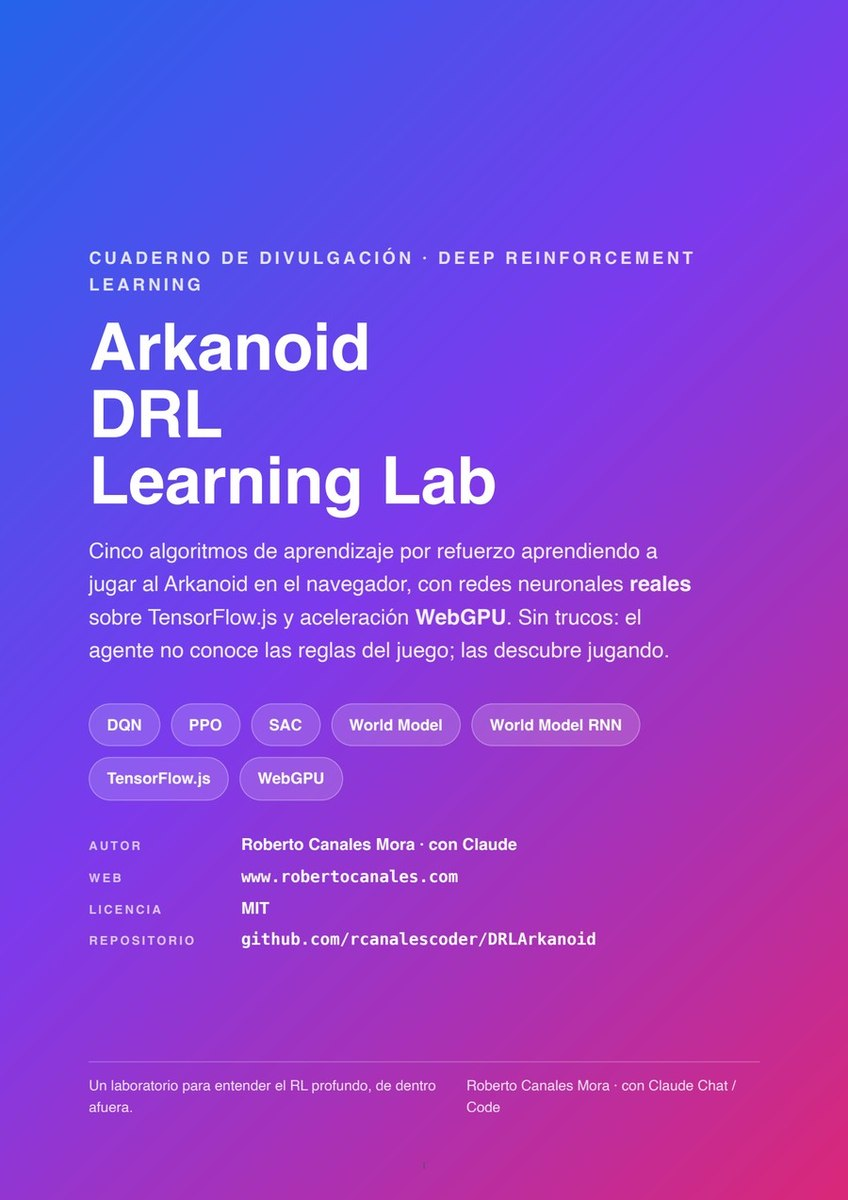
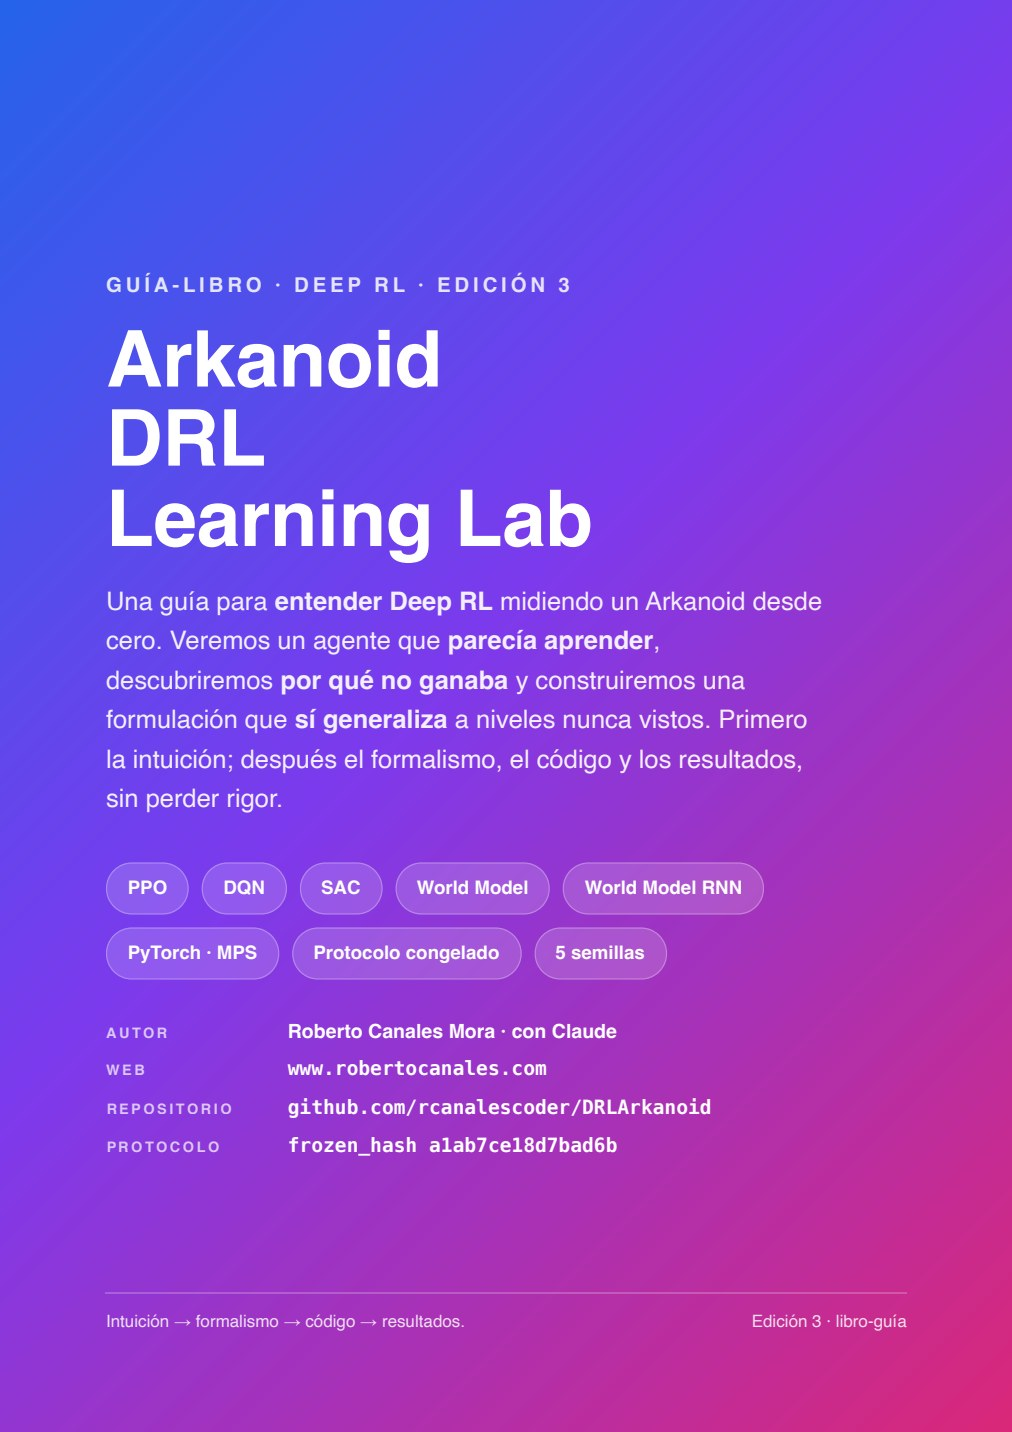
README al PDF v3 y pipeline autosuficiente (sin depender del v2 borrado)
- README: enlaces, portada y tira de muestra apuntan al cuaderno v3 (222 págs, ~13 MB); texto a Edición 3.
- Regeneradas docs/assets/pdf_cover.jpg y pdf_preview.jpg desde el PDF v3 (antes mostraban la v2).
- assemble_v3.py ya no lee docs/report_v2.html (borrado): la cabecera/CSS queda congelada en .claude/head_v2.html.

Changed region(s): [[0.092, 0.185, 0.8278, 0.8017], [0.092, 0.8942, 0.5212, 0.925], [0.5519, 0.8942, 0.8892, 0.925]]

diff --git a/.claude/head_v2.html b/.claude/head_v2.html
@@ -1,0 +1,189 @@
+<!DOCTYPE html>
+<html lang="es">
+<head>
+<meta charset="UTF-8" />
+<title>Arkanoid DRL Learning Lab — Cuaderno de divulgación</title>
+<style>
+  :root{
+    --ink:#11181f; --slate:#41464f; --muted:#8a909b; --line:#e7e9ef;
+    --blue:#2563eb; --blue-soft:#eff4fe; --violet:#7c3aed; --violet-soft:#f4effe;
+    --pink:#db2777; --pink-soft:#fdeef6; --green:#0c9f6e; --green-soft:#e9fbf4;
+    --amber:#d97706; --amber-soft:#fef3e6; --cyan:#0891b2; --cyan-soft:#e7f7fb;
+  }
+  @page{ size:A4; margin:14mm 0; }
+  @page cover{ margin:0; }
+  *{ box-sizing:border-box; }
+  html,body{ margin:0; padding:0; }
+  body{ font-family:-apple-system,"Segoe UI",Roboto,Helvetica,Arial,sans-serif;
+    color:var(--ink); font-size:10.5pt; line-height:1.55; -webkit-print-color-adjust:exact; print-color-adjust:exact; }
+  .pad{ padding:0 18mm; }
+  .mono{ font-family:"SFMono-Regular",Menlo,Consolas,monospace; }
+  h1,h2,h3,h4{ margin:0; letter-spacing:-0.3px; }
+  p{ margin:0 0 8px; }
+  small{ color:var(--muted); }
+
+  /* portada */
+  .cover{ page:cover; height:297mm; display:flex; flex-direction:column; justify-content:center;
+    color:#fff; padding:0 22mm; position:relative; overflow:hidden;
+    background:linear-gradient(135deg,#2563eb 0%,#7c3aed 45%,#db2777 100%); }
+  .cover .kicker{ font-size:12pt; letter-spacing:3px; text-transform:uppercase; opacity:.85; font-weight:600; }
+  .cover h1{ font-size:46pt; line-height:1.02; margin:14px 0 0; font-weight:700; }
+  .cover .sub{ font-size:15pt; opacity:.92; margin-top:18px; max-width:150mm; font-weight:400; }
+  .cover .chips{ margin-top:34px; display:flex; gap:10px; flex-wrap:wrap; }
+  .cover .chip{ background:rgba(255,255,255,.16); border:1px solid rgba(255,255,255,.28);
+    padding:8px 16px; border-radius:999px; font-size:11pt; font-weight:600; }
+  .cover .credits{ margin-top:30px; display:flex; flex-direction:column; gap:6px; }
+  .cover .cr{ display:flex; align-items:baseline; gap:14px; font-size:11.5pt; }
+  .cover .cr .lbl{ min-width:34mm; font-size:8.5pt; letter-spacing:2px; text-transform:uppercase; opacity:.72; font-weight:700; }
+  .cover .cr .val{ font-weight:600; }
+  .cover .foot{ position:absolute; bottom:20mm; left:22mm; right:22mm; font-size:10pt; opacity:.85;
+    display:flex; justify-content:space-between; border-top:1px solid rgba(255,255,255,.25); padding-top:12px; }
+
+  /* secciones y bandas de cabecera */
+  .section{ page-break-before:always; }
+  .band{ color:#fff; padding:16px 18mm; margin-bottom:14px; }
+  .band .n{ font-size:11pt; font-weight:700; opacity:.8; letter-spacing:2px; }
+  .band h2{ font-size:25pt; margin-top:2px; }
+  .band .tag{ font-size:10.5pt; opacity:.92; margin-top:4px; }
+  .b-blue{ background:linear-gradient(120deg,#2563eb,#3b82f6); }
+  .b-violet{ background:linear-gradient(120deg,#7c3aed,#a855f7); }
+  .b-pink{ background:linear-gradient(120deg,#db2777,#ec4899); }
+  .b-cyan{ background:linear-gradient(120deg,#0891b2,#06b6d4); }
+  .b-ink{ background:linear-gradient(120deg,#1f2937,#374151); }
+  .b-green{ background:linear-gradient(120deg,#0c9f6e,#10b981); }
+
+  h3.sub{ font-size:13.5pt; margin:18px 0 6px; color:var(--ink); display:flex; align-items:center; gap:8px; }
+  h3.sub::before{ content:""; width:5px; height:18px; border-radius:3px; background:var(--accent,#2563eb); display:inline-block; }
+
+  .card{ border:1px solid var(--line); border-radius:12px; padding:14px 16px; margin:8px 0; background:#fff; }
+  .tint{ border:none; border-left:4px solid var(--accent,#2563eb); border-radius:10px; padding:12px 16px; margin:10px 0; background:var(--accent-soft,#eff4fe); }
+  .tint .t{ font-weight:700; color:var(--accent,#2563eb); margin-bottom:3px; font-size:11pt; }
+
+  .defs{ display:grid; grid-template-columns:30mm 1fr; gap:6px 14px; margin:6px 0; }
+  .defs dt{ font-weight:700; color:var(--accent,#2563eb); font-family:"SFMono-Regular",Menlo,monospace; font-size:9.5pt; }
+  .defs dd{ margin:0; color:var(--slate); }
+
+  table.params{ width:100%; border-collapse:collapse; margin:8px 0; font-size:9.8pt; }
+  table.params th{ text-align:left; background:#f6f7f9; color:var(--muted); text-transform:uppercase; font-size:8pt; letter-spacing:.4px; padding:7px 10px; border-bottom:1px solid var(--line); }
+  table.params td{ padding:7px 10px; border-bottom:1px solid #f1f2f5; color:var(--slate); vertical-align:top; }
+  table.params td.k{ font-family:"SFMono-Regular",Menlo,monospace; color:var(--ink); font-weight:600; white-space:nowrap; }
+
+  figure{ margin:12px 0; }
+  figure img{ width:100%; border:1px solid var(--line); border-radius:12px; box-shadow:0 10px 26px -14px rgba(17,24,39,.45); display:block; }
+  figcaption{ font-size:9pt; color:var(--muted); margin-top:6px; text-align:center; }
+  .imgrow{ display:flex; gap:10px; } .imgrow figure{ flex:1; margin:12px 0; min-width:0; }
+
+  .pm{ display:flex; gap:12px; margin:12px 0; }
+  .pm .box{ flex:1; border-radius:12px; padding:13px 15px; }
+  .pm .prob{ background:#fdeef0; border:1px solid #f6d2d8; }
+  .pm .mejo{ background:#e9fbf4; border:1px solid #c7eede; }
+  .pm .h{ font-weight:700; font-size:10.5pt; margin-bottom:5px; display:flex; align-items:center; gap:6px; }
+  .pm .prob .h{ color:#c0344d; } .pm .mejo .h{ color:#0a6b4e; }
+
+  .bars{ margin:10px 0; }
+  .bars .row{ display:grid; grid-template-columns:30mm 1fr 22mm; align-items:center; gap:10px; margin:7px 0; }
+  .bars .name{ font-weight:600; font-size:10pt; }
+  .bars .track{ background:#eef0f4; border-radius:6px; height:18px; overflow:hidden; }
+  .bars .fill{ height:100%; border-radius:6px; }
+  .bars .val{ font-family:"SFMono-Regular",Menlo,monospace; font-size:9.5pt; text-align:right; color:var(--ink); font-weight:600; }
+  .legend{ font-size:8.5pt; color:var(--muted); margin-top:2px; }
+
+  .note{ background:#fff8ec; border:1px solid #f6e2bd; border-radius:10px; padding:10px 14px; font-size:9.8pt; color:#7a5408; margin:10px 0; }
+  .formula{ font-family:"SFMono-Regular",Menlo,monospace; background:#f4f5f8; border:1px solid #eaecf1; border-radius:8px; padding:8px 12px; font-size:10pt; color:var(--ink); margin:8px 0; }
+
+  table.compare{ width:100%; border-collapse:collapse; font-size:9.3pt; margin:8px 0; }
+  table.compare th{ background:#f6f7f9; padding:7px 8px; text-align:left; border-bottom:2px solid var(--line); font-size:8.5pt; }
+  table.compare td{ padding:7px 8px; border-bottom:1px solid #f1f2f5; color:var(--slate); }
+  table.compare td:first-child{ font-weight:600; color:var(--ink); }
+
+  .analogy{ display:flex; gap:12px; align-items:flex-start; background:var(--accent-soft,#eff4fe); border:1px solid var(--line); border-radius:12px; padding:13px 16px; margin:10px 0; }
+  .analogy .ic{ font-size:20pt; line-height:1; flex:none; }
+  .analogy .t{ font-weight:700; color:var(--accent,#2563eb); font-size:10.5pt; margin-bottom:2px; }
+  .analogy .bd{ color:var(--slate); }
+
+  .uses{ display:grid; grid-template-columns:1fr 1fr; gap:10px; margin:10px 0; }
+  .use{ border:1px solid var(--line); border-radius:11px; padding:11px 13px; background:#fff; }
+  .use .h{ font-weight:700; font-size:10pt; color:var(--ink); margin-bottom:2px; display:flex; gap:7px; align-items:center; }
+  .use .h .e{ font-size:13pt; }
+  .use p{ margin:0; color:var(--slate); font-size:9.6pt; }
+
+  .pipe{ display:flex; align-items:stretch; gap:0; flex-wrap:wrap; margin:10px 0; }
+  .pipe .stage{ flex:1 1 0; min-width:24mm; border:1px solid var(--line); border-radius:10px; padding:9px 10px; background:#fff; text-align:center; }
+  .pipe .stage .nm{ font-weight:700; font-size:9.3pt; color:var(--accent,#2563eb); }
+  .pipe .stage .dim{ font-family:"SFMono-Regular",Menlo,monospace; font-size:8.4pt; color:var(--slate); margin-top:3px; }
+  .pipe .arrow{ align-self:center; color:var(--muted); font-size:12pt; padding:0 5px; flex:none; }
+
+  .term{ font-weight:700; color:var(--accent,#2563eb); }
+  .lead{ color:var(--slate); font-size:10.2pt; margin:-2px 0 8px; }
+  .takeaway{ background:#f0fdf9; border:1px solid #c7eede; border-left:4px solid #0c9f6e; border-radius:10px; padding:11px 15px; margin:10px 0; }
+  .takeaway .t{ font-weight:700; color:#0a6b4e; font-size:10.5pt; margin-bottom:3px; }
+  .takeaway .bd{ color:#155e4a; }
+
+  /* autochequeo "comprueba que lo entiendes" */
+  .check{ background:#fff7ed; border:1px solid #fcd9a8; border-left:4px solid #d97706; border-radius:10px; padding:11px 15px; margin:11px 0; }
+  .check .t{ font-weight:700; color:#b45309; font-size:10.5pt; margin-bottom:5px; display:flex; align-items:center; gap:7px; }
+  .check ul{ margin:3px 0 0 16px; color:var(--slate); }
+  .check li{ margin:3px 0; }
+  /* ejemplo trabajado paso a paso */
+  .ejemplo{ background:#f0f7ff; border:1px solid #cfe0fb; border-radius:11px; padding:12px 16px; margin:11px 0; }
+  .ejemplo .t{ font-weight:700; color:#1d4ed8; font-size:10.8pt; margin-bottom:6px; display:flex; align-items:center; gap:7px; }
+  .ejemplo ol{ margin:4px 0 0 18px; color:var(--slate); }
+  .ejemplo li{ margin:4px 0; }
+  .ejemplo .mono{ color:var(--ink); }
+  /* nivel (chip de dificultad junto a un título de sección) */
+  .nivel{ display:inline-block; font-size:7.6pt; font-weight:700; text-transform:uppercase; letter-spacing:.6px; padding:2px 9px; border-radius:999px; background:var(--accent-soft,#eff4fe); color:var(--accent,#2563eb); margin-left:9px; vertical-align:middle; }
+  /* glosario en dos columnas */
+  .glosario{ column-count:2; column-gap:24px; margin:8px 0; }
+  .glosario .g{ break-inside:avoid; page-break-inside:avoid; margin-bottom:10px; font-size:9.8pt; color:var(--slate); }
+  .glosario .g b{ color:var(--ink); }
+  .glosario .g .term{ color:var(--blue); }
+  /* lista de referencias */
+  .reflist .r{ border-left:3px solid var(--line); padding:5px 13px; margin:8px 0; font-size:9.8pt; color:var(--slate); }
+  .reflist .r b{ color:var(--ink); }
+
+  /* "Ojo con esta palabra": glosa llana de un término donde aparece */
+  .palabra{ background:#fff8ec; border:1px solid #f6e2bd; border-left:4px solid #d97706; border-radius:9px; padding:9px 14px; margin:9px 0; font-size:9.9pt; color:#7a5408; }
+  .palabra .w{ font-weight:700; color:#b45309; }
+  .palabra b{ color:#5c3f06; }
+  /* "Para curiosos (opcional)": el detalle técnico/fórmula, que se puede saltar */
+  .curiosos{ background:#f5f6f8; border:1px dashed #c4cad6; border-radius:11px; padding:11px 15px; margin:11px 0; break-inside:avoid; page-break-inside:avoid; }
+  .curiosos .t{ font-weight:700; color:#5b6472; font-size:9pt; text-transform:uppercase; letter-spacing:.6px; margin-bottom:5px; display:flex; align-items:center; gap:7px; }
+  .curiosos .bd{ font-size:9.6pt; color:var(--slate); line-height:1.55; }
+  .curiosos .bd b{ color:var(--ink); }
+  /* "de qué va y por qué te importa" al abrir una sección */
+  .porque{ font-size:11pt; color:var(--slate); background:var(--accent-soft,#eff4fe); border-radius:10px; padding:11px 15px; margin:0 0 12px; }
+  .porque b{ color:var(--accent,#2563eb); }
+  /* captura de app a pantalla completa partida en dos (efecto continuo) */
+  .appshot{ max-width:74mm; margin:10px auto 4px; border:1px solid var(--line); border-radius:12px; overflow:hidden; box-shadow:0 12px 30px -16px rgba(17,24,39,.45); }
+  .appshot img{ display:block; width:100%; }
+  /* tabla comparativa de algoritmos en cajitas */
+  .algocajas{ display:grid; grid-template-columns:1fr 1fr; gap:10px; margin:10px 0; }
+  .algocaja{ border:1px solid var(--line); border-radius:11px; padding:11px 14px; background:#fff; }
+  .algocaja .ti{ font-weight:700; font-size:11pt; display:flex; align-items:center; gap:7px; }
+  .algocaja .fa{ font-size:8.2pt; color:var(--muted); text-transform:uppercase; letter-spacing:.4px; margin:2px 0 5px; }
+  .algocaja p{ margin:0; font-size:9.6pt; color:var(--slate); }
+  /* bloque interpretación (qué pasó / qué funcionó / qué mejorar) */
+  .interp{ display:grid; grid-template-columns:1fr 1fr 1fr; gap:10px; margin:10px 0; }
+  .interp .col{ border-radius:11px; padding:11px 13px; font-size:9.5pt; }
+  .interp .obs{ background:#eef4ff; border:1px solid #cfe0fb; }
+  .interp .ok{ background:#e9fbf4; border:1px solid #c7eede; }
+  .interp .mejora{ background:#fef3e6; border:1px solid #f6dcb3; }
+  .interp .h{ font-weight:700; font-size:9.5pt; margin-bottom:4px; display:flex; gap:6px; align-items:center; }
+  .interp .obs .h{ color:#1d4ed8; } .interp .ok .h{ color:#0a7f57; } .interp .mejora .h{ color:#b45309; }
+  .interp ul{ margin:0; padding-left:15px; } .interp li{ margin:2px 0; color:var(--slate); }
+
+  h3.sub{ break-after:avoid; page-break-after:avoid; }
+  figure,.pm,.bars,.uses,.analogy,.takeaway,.pipe,table.compare,table.params,.defs{ break-inside:avoid; page-break-inside:avoid; }
+  .code,.tree{ break-inside:avoid; page-break-inside:avoid; }
+
+  .code{ border-radius:11px; overflow:hidden; margin:9px 0; box-shadow:0 9px 24px -15px rgba(17,24,39,.55); }
+  .code .fn{ font-family:"SFMono-Regular",Menlo,monospace; font-size:8.1pt; font-weight:600; color:#fff; background:var(--accent,#2563eb); padding:6px 13px; display:flex; justify-content:space-between; align-items:center; }
+  .code .fn .role{ font-family:-apple-system,"Segoe UI",sans-serif; font-weight:700; text-transform:uppercase; letter-spacing:.6px; font-size:6.8pt; opacity:.92; }
+  .code pre{ margin:0; padding:12px 15px; background:#0f172a; color:#dbe4f0; font-family:"SFMono-Regular",Menlo,Consolas,monospace; font-size:8.1pt; line-height:1.54; white-space:pre-wrap; }
+  .code .cm{ color:#7e8da6; font-style:italic; }
+  .codecap{ font-size:8.7pt; color:var(--muted); margin:-1px 0 12px; padding-left:2px; }
+
+  .tree{ background:#0f172a; color:#dbe4f0; border-radius:11px; padding:14px 18px; margin:11px 0; font-family:"SFMono-Regular",Menlo,monospace; font-size:8.6pt; line-height:1.62; white-space:pre-wrap; box-shadow:0 9px 24px -15px rgba(17,24,39,.55); }
+  .tree .dir{ color:#7dd3fc; font-weight:600; }
+  .tree .cm{ color:#7e8da6; }
+  .tree .hot{ color:#fcd34d; font-weight:700; }

diff --git a/.claude/assemble_v3.py b/.claude/assemble_v3.py
@@ -63,11 +63,10 @@ V3_COVER = """
 
 def main():
     chapters_file = sys.argv[1]
-    with io.open('docs/report_v2.html', encoding='utf-8') as f:
-        v2 = f.read()
-    # cabecera = todo hasta justo antes de </style>
-    cut = v2.index('</style>')
-    head = v2[:cut]
+    # Cabecera/CSS base (extraida del v2). El report_v2.html ya no vive en docs/, asi que
+    # la cabecera (todo hasta justo antes de </style>) queda congelada en .claude/head_v2.html.
+    with io.open('.claude/head_v2.html', encoding='utf-8') as f:
+        head = f.read()
     with io.open(chapters_file, encoding='utf-8') as f:
         chapters = f.read()
     out = head + V3_CSS + '</style>\n</head>\n<body>\n' + V3_COVER + '\n' + chapters + '\n</body>\n</html>\n'

diff --git a/README.md b/README.md
@@ -18,17 +18,17 @@ Además, una pestaña **🏁 Comparativa** entrena los cinco con el mismo presup
 
 ## 📄 Cuaderno PDF — descárgalo
 
-Un cuaderno divulgativo de **94 páginas** en castellano que explica, paso a paso y con capturas reales, **los fundamentos del RL** (el bucle agente–entorno, los componentes, las recompensas, los episodios y la red neuronal) y **cómo funciona todo por dentro**: cómo arranca y se ejecuta el juego, cómo el agente toma los controles, cómo se guardan los datos, cómo se entrena la red y cómo se actualizan las gráficas. Cada uno de los cinco algoritmos tiene su capítulo homogéneo —red (con diagramas), **función de pérdida** (qué opciones había y por qué la elegida), justificación de parámetros (con **búsqueda en rejilla**), interpretación de resultados y comparación con el anterior—, y se cierra con una **tabla comparativa global**, una sección de **medición** (por qué la evaluación **greedy** es la forma justa de comparar) y un capítulo de **afinado y conclusiones** con el análisis de convergencia y el ajuste de hiperparámetros validado con datos.
+Un cuaderno divulgativo de **222 páginas** en castellano (**Edición 3**) que cuenta el viaje completo: de un agente **ciego** que parecía aprender pero sacaba **0%** en niveles dispersos, al **diagnóstico** de por qué fallaba (no era el algoritmo, era la *formulación* de la tarea), la **receta** que lo desbloquea, los **fundamentos de RL y Deep RL** (el bucle agente–entorno, MDP/POMDP, valor y Bellman, exploración, replay, redes y entrenamiento) y un capítulo a fondo por cada uno de los **cinco algoritmos** —red (con diagramas), **función de pérdida**, hiperparámetros (con **búsqueda en rejilla**), resultados y comparación—. Cierra con la **medición** (por qué la evaluación **greedy** sobre niveles no vistos es la forma justa de comparar), la **ablación** que prueba la tesis y el **veredicto** con datos reales. Cada tema lleva **doble pista de lectura**: una explicación pedagógica y un recuadro rojo **«Y ahora, para expertos»** con el formalismo. Más de **100 figuras** —infografías, esquemas, capturas y gráficas derivadas de `results/ledger.csv`.
 
 <p align="center">
-  <a href="docs/Arkanoid-DRL-Learning-Lab-v2.pdf"><img src="docs/assets/pdf_cover.jpg" width="340" alt="Portada del cuaderno PDF" /></a>
+  <a href="docs/Arkanoid-DRL-Learning-Lab-v3.pdf"><img src="docs/assets/pdf_cover.jpg" width="340" alt="Portada del cuaderno PDF (Edición 3)" /></a>
 </p>
 <p align="center">
-  <a href="docs/Arkanoid-DRL-Learning-Lab-v2.pdf"><b>⬇&nbsp;&nbsp;Descargar el PDF</b></a>
-  &nbsp;&nbsp;·&nbsp;&nbsp;94 páginas&nbsp;&nbsp;·&nbsp;&nbsp;~8 MB&nbsp;&nbsp;·&nbsp;&nbsp;español
+  <a href="docs/Arkanoid-DRL-Learning-Lab-v3.pdf"><b>⬇&nbsp;&nbsp;Descargar el PDF</b></a>
+  &nbsp;&nbsp;·&nbsp;&nbsp;222 páginas&nbsp;&nbsp;·&nbsp;&nbsp;~13 MB&nbsp;&nbsp;·&nbsp;&nbsp;español
 </p>
 <p align="center">
-  <a href="docs/Arkanoid-DRL-Learning-Lab-v2.pdf"><img src="docs/assets/pdf_preview.jpg" width="820" alt="Páginas de muestra del cuaderno" /></a>
+  <a href="docs/Arkanoid-DRL-Learning-Lab-v3.pdf"><img src="docs/assets/pdf_preview.jpg" width="820" alt="Páginas de muestra del cuaderno (Edición 3)" /></a>
 </p>
 
 > 💡 En GitHub puedes leerlo online (clic en la portada) o descargarlo desde el visor.
@@ -157,7 +157,7 @@ Una segunda pestaña entrena los cinco con el **mismo presupuesto** y los evalú
 
 ## 🔄 Cómo funciona por dentro (resumen)
 
-Una iteración de entrenamiento siempre hace lo mismo (ver el detalle ilustrado en el [cuaderno PDF](docs/Arkanoid-DRL-Learning-Lab-v2.pdf)):
+Una iteración de entrenamiento siempre hace lo mismo (ver el detalle ilustrado en el [cuaderno PDF](docs/Arkanoid-DRL-Learning-Lab-v3.pdf)):
 
 1. **Observar** los estados de los N entornos (un vector de 6 números por partida).
 2. La **red decide** las N acciones de una sola pasada por la GPU (inferencia en lote).
